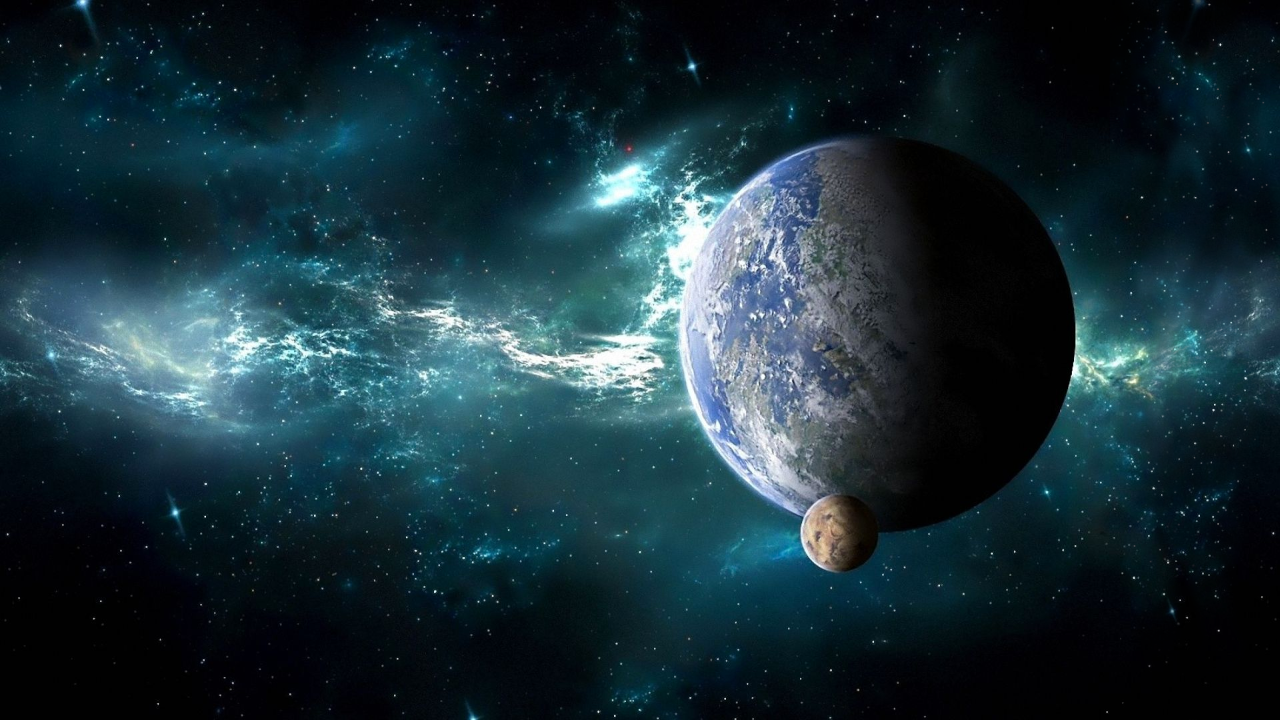
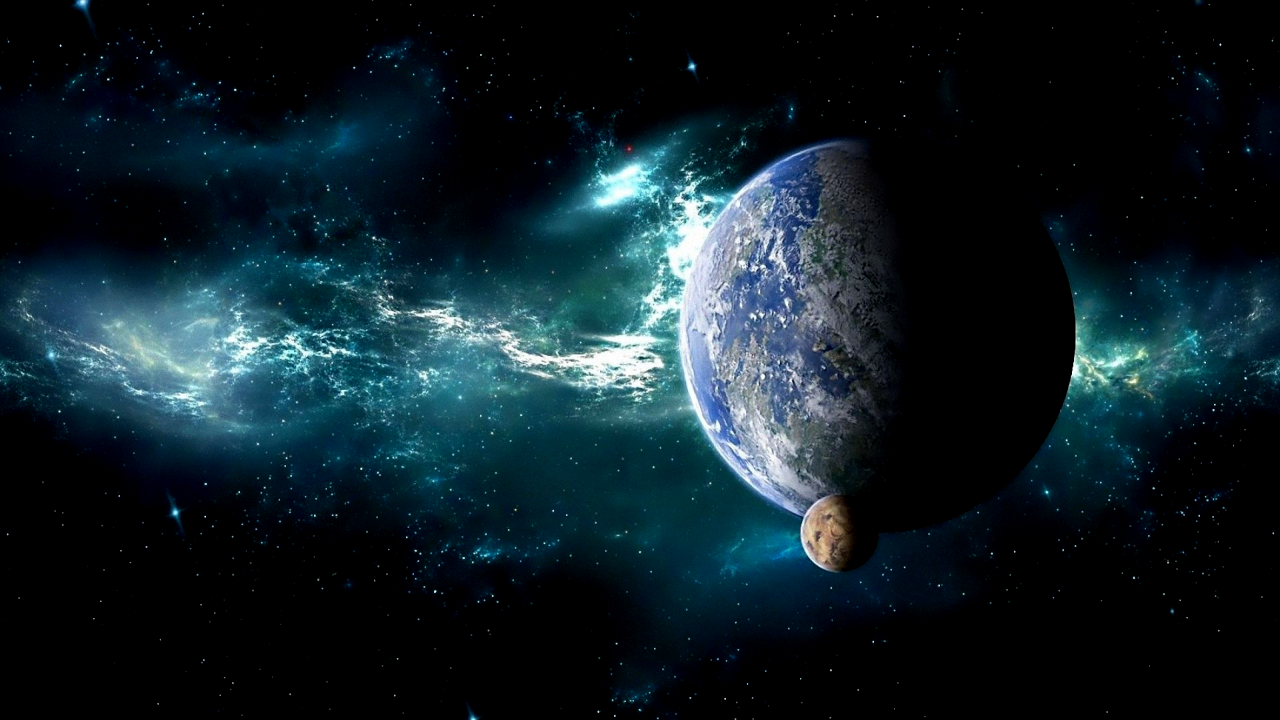
Tweaks to bloom. Improved graphics.

diff --git a/core/src/com/phil/spacegame/GameplayScreen.java b/core/src/com/phil/spacegame/GameplayScreen.java
@@ -50,7 +50,7 @@ public class GameplayScreen implements Screen {
 		guiStage.init();
 		ShaderLoader.BasePath = "shaders/";
 		postProcessor = new PostProcessor( false, false, false);
-		Bloom bloom = new Bloom( (int)(Gdx.graphics.getWidth() * 0.05f), (int)(Gdx.graphics.getHeight() * 0.05f) );
+		Bloom bloom = new Bloom( (int)(Gdx.graphics.getWidth() * 0.04d), (int)(Gdx.graphics.getHeight() * 0.03d) );
 		int effects = Effect.PhosphorVibrance.v | Effect.Tint.v;
 		CrtMonitor crtMonitor = new CrtMonitor(Spacegame.screenWidth, Spacegame.screenHeight, false, false, RgbMode.RgbShift, effects);
 		postProcessor.addEffect( bloom );
